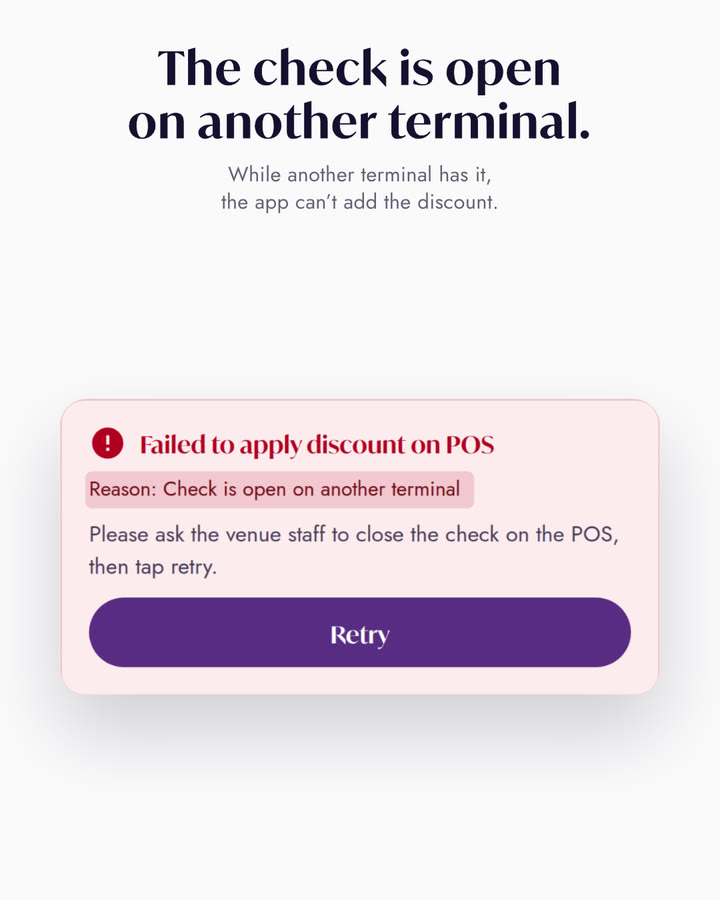
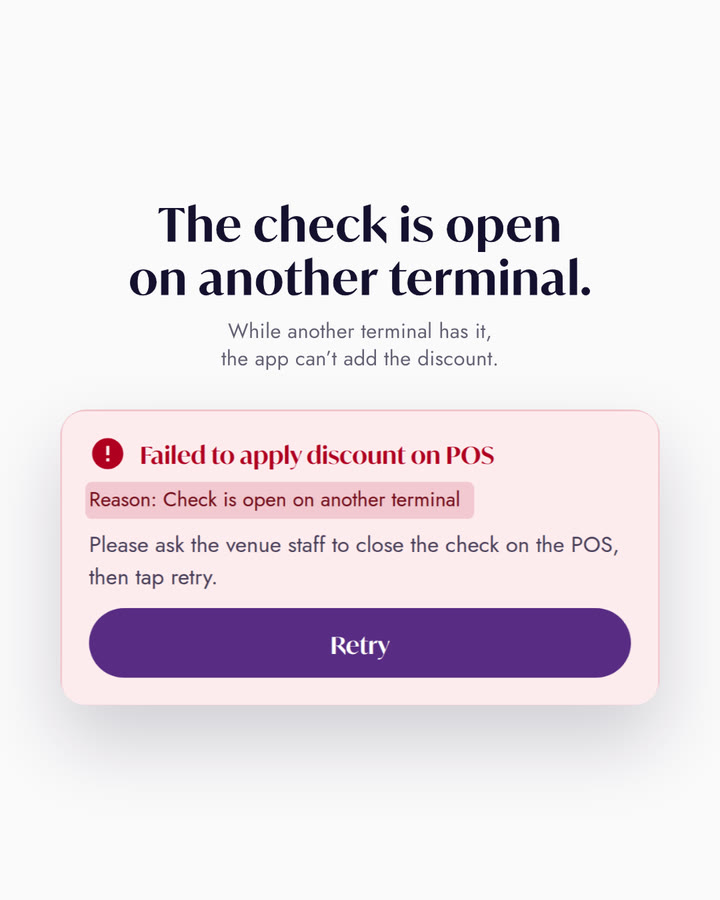
Films: cover is words alone; one alignment system
The cover is purple with the white logo, the situation and the series,
centred like the close; it slides away to uncover the phone.

Every shot now lines up by two rules. Over the phone, which the frame
crops, the statement sits 56 px above it, so words and phone always meet
on the same line. With something shown whole (the error card, the POS,
the bill, the dialog, the phone back at the table), statement and object
are centred in the frame together, 56 px apart. Each film measures its
own type to do this. IvyMode's tracking is balanced on both sides so
each line centres on its ink.

Claude-Session: https://claude.ai/code/session_01UDbUantV7xvSMHGkAysqWx

Changed region(s): [[0.0917, 0.4356, 0.8861, 0.8089], [0.1833, 0.1867, 0.825, 0.4044], [0.1833, 0.0311, 0.825, 0.1556]]

diff --git a/video/explainer.html b/video/explainer.html
@@ -12,9 +12,10 @@
    4:5 (1080 x 1350). Colour: purple for the brand moments (the cover and the
    close, white type, the white logo), ink for type, paper behind the product.
    Everything else on screen is the product's own. Ground: flat. No gradients,
-   no blur. Alignment: one statement, centred at the top; the product below it,
-   large, cropped by the bottom of the frame. The opening frame is the cover,
-   and the thumbnail. */
+   no blur. Alignment: one statement, centred, over the product: GAP above the
+   phone, which the frame crops; or centred in the frame together with anything
+   shown whole (see the layout). The opening frame is the cover, and the
+   thumbnail: words alone on purple. */
 @font-face{font-family:PosSans;font-weight:400;src:url(assets/fonts/open-sans-400.woff2) format('woff2')}
 @font-face{font-family:PosSans;font-weight:600;src:url(assets/fonts/open-sans-600.woff2) format('woff2')}
 :root{--purple:#592A87;--ink:#14102E;--paper:#FAFAFA;--W:1080px;--H:1350px}
@@ -32,11 +33,12 @@ html,body{width:var(--W);height:var(--H);overflow:hidden;background:var(--paper)
 .ln{display:block;overflow:hidden;padding:36px 24px;margin:-36px 0;line-height:1.18}
 .ln > *{display:inline-block;will-change:transform}
 .step{font-family:Jost,sans-serif;font-size:27px;letter-spacing:.2em;padding-left:.2em;text-transform:uppercase;color:var(--purple)}
-.say{font-family:Ivy,serif;font-size:68px;letter-spacing:.035em;-webkit-text-stroke:.013em currentColor;font-kerning:normal}
+.say{font-family:Ivy,serif;font-size:68px;letter-spacing:.035em;padding-left:.035em;-webkit-text-stroke:.013em currentColor;font-kerning:normal}
 .sup{font-family:Jost,sans-serif;font-size:31px;color:rgba(20,16,46,.66);line-height:1.3;letter-spacing:.01em}
-.cover .say{font-size:74px}
-.cover{top:44px}
-.cover .gapL{margin-top:-18px}
+/* the cover is words alone, centred: the logo, the situation, the series */
+#cover{z-index:20}
+.cover .say{font-size:80px}
+.cover .gapL{margin-top:22px}
 .mid .say{font-size:80px}
 .logo img{display:inline-block;width:300px;height:auto;vertical-align:top}
 /* the cover and the close: purple, white type, the white logo */
@@ -91,10 +93,10 @@ html,body{width:var(--W);height:var(--H);overflow:hidden;background:var(--paper)
 #dlg img{position:absolute;left:-28px;top:-28px;width:690px}
 </style></head>
 <body><div id="stage">
-  <!-- the cover: the opening frame, and the thumbnail. Purple, behind the phone, so it can
-       slide away as the film begins while the phone settles into place -->
+  <!-- the cover: the opening frame, and the thumbnail. Purple, over everything, words alone;
+       it slides away as the film begins and leaves the phone in place -->
   <div id="cover" class="panel onPurple"><div id="coverIn" class="panel" style="background:none">
-    <div id="c1" class="title cover"><span class="ln logo"><img src="assets/logo-white.svg" alt="Cinnamon DISCOVERY"></span>
+    <div id="c1" class="title cover mid"><span class="ln logo"><img src="assets/logo-white.svg" alt="Cinnamon DISCOVERY"></span>
       <span class="ln gapL"><span class="say">When the check is open</span></span><span class="ln"><span class="say">on the POS.</span></span>
       <span class="ln gap"><span class="sup">Dine with DISCOVERY Dollars</span></span></div>
   </div></div>
@@ -337,14 +339,14 @@ const pmix = (A, B, k) => ({ s: Math.exp(lerp(Math.log(A.s), Math.log(B.s), k)),
 const PC_FULL = posCam(901, 507, 1), PC_EXIT = posCam(1290, 880, 1.9), PC_TILE = posCam(560, 430, 1.75);
 // the phone sits large under the words, cropped by the frame; the guest has scrolled the bill to the card
 const S = 1.45, SCROLL = 214;
-const REST = { x: CX - 417 * S / 2, y: 372 };
-const POSS = 1.0, POSX = (W - 1016 * POSS) / 2, POSY = 400;     // the POS, centred under its statement
+const REST = { x: CX - 417 * S / 2, y: 392 };
+const POSS = 1.0, POSX = (W - 1016 * POSS) / 2;     // the POS, centred under its statement (its top set by the layout)
 const onScreen = (x, pageY) => ({ x: REST.x + (12 + x) * S, y: REST.y + (12 + 54 - SCROLL + pageY) * S });
 
 /* ---------------------------------------------------------------- the film
    Told from the team member's side: what you see, what it means, what you do.
-   0     Cover (and thumbnail): the brand, the situation, the phone with the error  calm
-   3.0   A guest shows you this: the phone settles, the error on it                steady
+   0     Cover (and thumbnail): the brand, the situation, on purple                calm
+   3.0   A guest shows you this: the phone, the error on it                        steady
    5.6   What it means: the error stands alone, its reason marked                 held
    9.5   Find the check on the POS                                                steady
    11.7  Tap Cancel/Exit (in, ring, tap, out); the POS repaints to Home           precise
@@ -353,10 +355,36 @@ const onScreen = (x, pageY) => ({ x: REST.x + (12 + x) * S, y: REST.y + (12 + 54
    23.0  The discount is on the bill                                              held
    25.5  The same fix works for DISCOVERY Dollars                                 brief
    28.5  Close, centred: Minimise the check. Tap Retry. The logo.                 calm   */
+/* ------------------------------------------------------------ the layout
+   Two rules, so every shot lines up the same way. Over the phone, which the frame
+   crops, a statement sits GAP above it: the words always meet the phone on the same
+   line. With something shown whole, the statement and that thing are centred in the
+   frame together, GAP apart. Measured from the type itself, so it holds when the
+   words change. */
+const GAP = 56;
+let LAY = null;
+function place(ids) {
+  const hs = Object.fromEntries(ids.map((id) => [id, $(id).offsetHeight]));      // read everything, then write
+  return {
+    over: (id, y) => { $(id).style.top = `${y - GAP - hs[id]}px`; },
+    // returns the top of the thing shown with the statement
+    with: (id, h) => { const top = Math.round((H - hs[id] - GAP - h) / 2); $(id).style.top = `${top}px`; return top + hs[id] + GAP; },
+  };
+}
+const ERR_H = 351 * 900 / 712, BILL_H = 347 * 900 / 712, DLG_H = 508 * 1.3, POS_H = 584 + 26;   // the POS with its caption
+function layout() {
+  const L = place(['w1', 'w2', 'w3', 'w4', 'w5', 'w6', 'w7', 'w8']);
+  L.over('w1', REST.y); L.over('w6', REST.y);
+  const pos = L.with('w3', POS_H); L.with('w4', POS_H); L.with('w5', POS_H);
+  return { err: L.with('w2', ERR_H) + ERR_H / 2, bill: L.with('w7', BILL_H) + BILL_H / 2, dlg: L.with('w8', DLG_H), pos,
+    ready: document.fonts.status === 'loaded' };
+}
+
 function render(t) {
+  if (!LAY || !LAY.ready) LAY = layout();
   // the phone: in place from the first frame; steps down so the error can stand alone;
   // returns from the right; steps down again
-  let px = 0, py = 44 * (1 - glide(t, 2.45, 1.0));   // on the cover it sits a little lower, under the words; it settles as they go
+  let px = 0, py = 0;
   if (t >= 5.75) py = 1100 * glide(t, 5.75, 1.1);
   if (t >= 17.5) { py = 0; px = 1100 * (1 - glide(t, 18.55, 1.0)); }
   if (t >= 23.15) py = 1100 * glide(t, 23.15, 1.1);
@@ -368,16 +396,16 @@ function render(t) {
 
   // details lifted out of the phone and enlarged; each steps down when its shot ends
   const errDy = t >= 9.35 ? 1100 * glide(t, 9.35, .9) : 0;
-  lift('liftErr', t, 5.6, { ...onScreen(20, 472), w: 353 * S }, 900, CX, 820, 351, errDy);
+  lift('liftErr', t, 5.6, { ...onScreen(20, 472), w: 353 * S }, 900, CX, LAY.err, 351, errDy);
   $('liftErr').querySelector('.mark').style.transform = `scaleX(${clamp(glide(t, 6.6, .8)).toFixed(4)})`;
   const billDy = t >= 25.35 ? 1100 * glide(t, 25.35, .9) : 0;
-  lift('liftBill', t, 23.0, { ...onScreen(20, 506), w: 353 * S }, 900, CX, 820, 347, billDy);
+  lift('liftBill', t, 23.0, { ...onScreen(20, 506), w: 353 * S }, 900, CX, LAY.bill, 347, billDy);
   $('liftBill').querySelector('.mark').style.transform = `scaleX(${clamp(glide(t, 23.8, .8)).toFixed(4)})`;
 
   // the POS: in from the right under its centred statement; steps down when the guest's turn comes
   let qx = t < 9.5 ? 1200 : 1200 * (1 - glide(t, 9.5, 1.0)), qy = 0;
   if (t >= 18.35) qy = 1100 * glide(t, 18.35, .9);
-  $('pos').style.transform = `translate3d(${(POSX + qx).toFixed(2)}px,${(POSY + qy).toFixed(2)}px,0) scale(${POSS})`;
+  $('pos').style.transform = `translate3d(${(POSX + qx).toFixed(2)}px,${(LAY.pos + qy).toFixed(2)}px,0) scale(${POSS})`;
   $('pos').style.display = qx > 1150 || qy > 1080 ? 'none' : 'block';
   let pc = PC_FULL;
   if (t >= 11.7) pc = pmix(PC_FULL, PC_EXIT, glide(t, 11.7, 1.1));
@@ -393,10 +421,10 @@ function render(t) {
 
   // the DISCOVERY Dollars dialog: in from the right, out to the right for the close
   let gx = t < 25.5 ? 1100 : 1100 * (1 - glide(t, 25.5, 1.0));
-  $('dlg').style.transform = `translate3d(${(CX - 317 * 1.3 + gx).toFixed(2)}px,${(820 - 254 * 1.3).toFixed(2)}px,0) scale(1.3)`;
+  $('dlg').style.transform = `translate3d(${(CX - 317 * 1.3 + gx).toFixed(2)}px,${LAY.dlg.toFixed(2)}px,0) scale(1.3)`;
   $('dlg').style.display = gx > 1080 ? 'none' : 'block';
 
-  // the cover slides up and away, taking its words with it; the phone settles (above)
+  // the cover slides up and away, taking its words with it, and leaves the phone in place
   const cv = glide(t, 2.45, 1.0);
   $('cover').style.transform = `translate3d(0,${(-H * cv).toFixed(2)}px,0)`;
   $('coverIn').style.transform = `translate3d(0,${(-140 * cv).toFixed(2)}px,0)`;
@@ -420,8 +448,8 @@ window.DURATION = 34;
 window.SIZE = { w: W, h: H };
 /* the storyboard: one entry per shot (storyboard.mjs renders each at t) */
 window.SHOTS = [
-  { t: 0, from: 0, to: 2.4, id: 'c1', kind: 'Cover · thumbnail', action: 'The opening frame is the thumbnail. Purple: the white logo and the situation, over the guest’s phone showing “Failed to apply discount on POS”.', sound: 'Music opens on a question (marimba).' },
-  { t: 4.2, from: 3.0, to: 5.5, id: 'w1', action: 'The purple cover slides away with its words; the phone settles into place, scrolled to the error.', sound: 'Groove settles in.' },
+  { t: 0, from: 0, to: 2.4, id: 'c1', kind: 'Cover · thumbnail', action: 'The opening frame is the thumbnail. Words alone on purple: the white logo, the situation, and the series.', sound: 'Music opens on a question (marimba).' },
+  { t: 4.2, from: 3.0, to: 5.5, id: 'w1', action: 'The purple cover slides away with its words, uncovering the guest’s phone, scrolled to “Failed to apply discount on POS”.', sound: 'Groove settles in.' },
   { t: 7.6, from: 5.85, to: 9.35, id: 'w2', action: 'The error card lifts out of the phone, the reason marked: Check is open on another terminal.', sound: '' },
   { t: 10.8, from: 9.6, to: 11.55, id: 'w3', action: 'The POS slides in under a centred statement: Pick Up Check, Table B12/1.', sound: '' },
   { t: 13.5, from: 11.75, to: 14.6, id: 'w4', action: 'Close in on the bottom row. Cancel/Exit ringed and pressed, between Void and Make Payment.', sound: 'Tap.' },

diff --git a/video/password.html b/video/password.html
@@ -5,9 +5,10 @@
    4:5 (1080 x 1350). Colour: purple for the brand moments (the cover and the
    close, white type, the white logo), ink for type, paper behind the product.
    Everything inside the phone is the product itself: the mockup's own sign-in
-   sheet, run frame by frame. Ground: flat. Alignment: one statement, centred at
-   the top; the product below it, large, cropped by the bottom of the frame. The
-   opening frame is the cover, and the thumbnail. */
+   sheet, run frame by frame. Ground: flat. Alignment: one statement, centred,
+   over the product: GAP above the phone, which the frame crops; or centred in the
+   frame together with anything shown whole (see the layout). The opening frame
+   is the cover, and the thumbnail: words alone on purple. */
 /* Type: the product's faces. IvyMode states, Jost supports and numbers the step.
    IvyMode is a high-contrast display cut: at video size its hairlines (the arm of a
    k, the thin stroke of an x) fall under a pixel and vanish, and its tight pairs
@@ -29,11 +30,12 @@ html,body{width:var(--W);height:var(--H);overflow:hidden;background:var(--paper)
 .ln{display:block;overflow:hidden;padding:36px 24px;margin:-36px 0;line-height:1.18}
 .ln > *{display:inline-block;will-change:transform}
 .step{font-family:Jost,sans-serif;font-size:27px;letter-spacing:.2em;padding-left:.2em;text-transform:uppercase;color:var(--purple)}
-.say{font-family:Ivy,serif;font-size:68px;letter-spacing:.035em;-webkit-text-stroke:.013em currentColor;font-kerning:normal}
+.say{font-family:Ivy,serif;font-size:68px;letter-spacing:.035em;padding-left:.035em;-webkit-text-stroke:.013em currentColor;font-kerning:normal}
 .sup{font-family:Jost,sans-serif;font-size:31px;color:rgba(20,16,46,.66);line-height:1.3;letter-spacing:.01em}
-.cover .say{font-size:74px}
-.cover{top:44px}
-.cover .gapL{margin-top:-18px}
+/* the cover is words alone, centred: the logo, the situation, the series */
+#cover{z-index:20}
+.cover .say{font-size:80px}
+.cover .gapL{margin-top:22px}
 .mid .say{font-size:80px}
 .logo img{display:inline-block;width:300px;height:auto;vertical-align:top}
 /* the cover and the close: purple, white type, the white logo */
@@ -86,10 +88,10 @@ html,body{width:var(--W);height:var(--H);overflow:hidden;background:var(--paper)
 @font-face{font-family:PosSans;font-weight:600;src:url(assets/fonts/open-sans-600.woff2) format('woff2')}
 </style></head>
 <body><div id="stage">
-  <!-- the cover: the opening frame, and the thumbnail. Purple, behind the phone, so it can
-       slide away as the film begins while the phone settles into place -->
+  <!-- the cover: the opening frame, and the thumbnail. Purple, over everything, words alone;
+       it slides away as the film begins and leaves the phone in place -->
   <div id="cover" class="panel onPurple"><div id="coverIn" class="panel" style="background:none">
-    <div id="c1" class="title cover"><span class="ln logo"><img src="assets/logo-white.svg" alt="Cinnamon DISCOVERY"></span>
+    <div id="c1" class="title cover mid"><span class="ln logo"><img src="assets/logo-white.svg" alt="Cinnamon DISCOVERY"></span>
       <span class="ln gapL"><span class="say">When a guest forgets</span></span><span class="ln"><span class="say">their password.</span></span>
       <span class="ln gap"><span class="sup">Dine with DISCOVERY Dollars</span></span></div>
   </div></div>
@@ -205,7 +207,7 @@ function typing(start, text, { base = .13, spread = .07, seed = 7, pauses = {} }
 const typed = (t, text, at) => { let n = 0; while (n < at.length && t >= at[n]) n++; return text.slice(0, n); };
 
 /* ------------------------------------------------------------ the story
-   0     Cover (and thumbnail): the brand, the situation, the phone     calm
+   0     Cover (and thumbnail): the brand, the situation, on purple     calm
    3.0   A guest can't sign in: the app has said no                     steady
    6.0   Show them Forgot Password? (ringed, tapped)                    held
    9.2   1  The email carries over; Send code                           steady
@@ -383,8 +385,8 @@ function measure() {
    The phone sits large under the words, cropped by the bottom of the frame, so
    the sheet reads; it pulls back when the whole screen matters. */
 const CAM = {
-  big: { s: 1.6, y: 372 },
-  full: { s: 1.12, y: 378 },
+  big: { s: 1.6, y: 392 },
+  full: { s: 1.04, y: 0 },          // whole, so it is centred with its words (y set by the layout)
 };
 function camAt(t) {
   // the pull-back to the table is seen; the return to big happens while the phone is out of frame
@@ -440,11 +442,35 @@ function lift(el, t, up, down, from, toW, toCX, toCY) {
   return k;
 }
 
+/* ------------------------------------------------------------ the layout
+   Two rules, so every shot lines up the same way. Over the phone, which the frame
+   crops, a statement sits GAP above it: the words always meet the phone on the same
+   line. With something shown whole, the statement and that thing are centred in the
+   frame together, GAP apart. Measured from the type itself, so it holds when the
+   words change. */
+const GAP = 56;
+let LAY = null;
+function place(ids) {
+  const hs = Object.fromEntries(ids.map((id) => [id, $(id).offsetHeight]));      // read everything, then write
+  return {
+    over: (id, y) => { $(id).style.top = `${y - GAP - hs[id]}px`; },
+    // returns the top of the thing shown with the statement
+    with: (id, h) => { const top = Math.round((H - hs[id] - GAP - h) / 2); $(id).style.top = `${top}px`; return top + hs[id] + GAP; },
+  };
+}
+function layout() {
+  const L = place(['w1', 'w2', 'w3', 'w4', 'w5', 'w6', 'w6b', 'w7', 'w8', 'w9', 'w10']);
+  ['w1', 'w2', 'w3', 'w4', 'w5', 'w6', 'w6b', 'w7', 'w9', 'w10'].forEach((id) => L.over(id, CAM.big.y));
+  CAM.full.y = L.with('w8', 876 * CAM.full.s);          // back at the table: the whole phone
+  return { email: CAM.big.y, ready: document.fonts.status === 'loaded' };   // the email lifts to the phone's top line
+}
+
 function render(t) {
   if (!AT.signin) return;
-  // the phone: in place from the first frame (the cover), then the camera follows the story
+  if (!LAY || !LAY.ready) LAY = layout();
+  // the phone: in place from the first frame (under the cover), then the camera follows the story
   const cam = camAt(t), PW = 417 * cam.s, home = CX - PW / 2;
-  let px = home, py = cam.y + 44 * (1 - glide(t, 2.45, 1.0));   // on the cover it sits a little lower, under the words; it settles as they go
+  let px = home, py = cam.y;
   // the two tips are shown on the same phone: it steps out left, and comes back in from the right
   if (t >= T.tip1 - .7 && t < T.tip1 + .9) { const o = glide(t, T.tip1 - .7, .5), i = glide(t, T.tip1 - .12, .8); px += t < T.tip1 - .12 ? -1100 * o : 1100 * (1 - i); }
   if (t >= T.tip2 - .5 && t < T.tip2 + .9) { const o = glide(t, T.tip2 - .5, .6), i = glide(t, T.tip2 + .12, .8); px += t < T.tip2 + .12 ? -1100 * o : 1100 * (1 - i); }
@@ -467,7 +493,7 @@ function render(t) {
   $('note').style.display = t >= T.noteIn && nOut < .999 ? 'block' : 'none';
   $('note').style.transform = `translate3d(0,${(-90 + 146 * nIn - 146 * nOut).toFixed(2)}px,0)`;   // below the island, as iOS drops it
   const nx = px + (12 + 10) * cam.s, ny = py + (12 + 56) * cam.s;
-  lift($('emailBig'), t, T.emailUp, T.emailDown, { x: nx, y: ny, s: cam.s, w0: 373, h0: 336.3 }, 880, CX, 860);
+  lift($('emailBig'), t, T.emailUp, T.emailDown, { x: nx, y: ny, s: cam.s, w0: 373, h0: 336.3 }, 880, CX, LAY.email + 880 * 336.3 / 373 / 2);
   $('emailMark').style.transform = `scaleX(${glide(t, T.emailUp + 1.0, .7).toFixed(4)})`;
 
   // the rules, enlarged while the password goes in: a second copy of the page, in step
@@ -480,7 +506,7 @@ function render(t) {
 
   touches(t);
 
-  // the cover slides up and away, taking its words with it; the phone settles (above)
+  // the cover slides up and away, taking its words with it, and leaves the phone in place
   const cv = glide(t, 2.45, 1.0);
   $('cover').style.transform = `translate3d(0,${(-H * cv).toFixed(2)}px,0)`;
   $('coverIn').style.transform = `translate3d(0,${(-140 * cv).toFixed(2)}px,0)`;
@@ -508,8 +534,8 @@ window.DURATION = 50.8;
 window.SIZE = { w: W, h: H };
 /* the storyboard: one entry per shot (storyboard.mjs renders each at t) */
 window.SHOTS = [
-  { t: 0, from: 0, to: 2.4, id: 'c1', kind: 'Cover · thumbnail', action: 'The opening frame is the thumbnail. Purple: the white logo and the situation, over the guest’s phone, where sign-in has just failed with “Wrong Username or Password”.', sound: 'Music opens on a question (marimba).' },
-  { t: 4.3, from: 3.0, to: 5.85, id: 'w1', action: 'The purple cover slides away with its words; the phone settles into place. The app’s failure toast runs down.', sound: 'Groove settles in.' },
+  { t: 0, from: 0, to: 2.4, id: 'c1', kind: 'Cover · thumbnail', action: 'The opening frame is the thumbnail. Words alone on purple: the white logo, the situation, and the series.', sound: 'Music opens on a question (marimba).' },
+  { t: 4.3, from: 3.0, to: 5.85, id: 'w1', action: 'The purple cover slides away with its words, uncovering the guest’s phone: sign-in has just failed with “Wrong Username or Password”. The toast runs down.', sound: 'Groove settles in.' },
   { t: 7.7, from: 6.05, to: 9.05, id: 'w2', action: 'A ring draws round Forgot Password?; a fingertip comes in from below right and taps it.', sound: 'Tap.' },
   { t: 10.5, from: 9.25, to: 12.15, id: 'w3', action: 'Forgot Password, with the email already filled in from sign-in. Tap Send code; the button spins.', sound: 'Tap.' },
   { t: 15.8, from: 12.45, to: 18.1, id: 'w4', action: 'An email notification drops in under the island. The guest opens it: the real email lifts out, the code 800368 marked.', sound: 'Notification, two soft notes.' },

diff --git a/video/storyboard/index.html b/video/storyboard/index.html
@@ -77,13 +77,13 @@ dd{margin:0;min-width:0}
         <figure><img src="frames/password-01.jpg" width="720" height="900" loading="lazy" alt="Shot 1: When a guest forgets their password."></figure>
         <div class="shot-meta"><span class="n">01</span><span class="tc">0:00.0 – 0:02.4</span><span class="kind">Cover · thumbnail</span></div>
         <div class="words"><p class="w-say">When a guest forgets their password.</p><p class="w-sup">Dine with DISCOVERY Dollars</p><p class="w-logo">Cinnamon DISCOVERY logo</p></div>
-        <dl><dt>On screen</dt><dd>The opening frame is the thumbnail. Purple: the white logo and the situation, over the guest’s phone, where sign-in has just failed with “Wrong Username or Password”.</dd><dt>Sound</dt><dd>Music opens on a question (marimba).</dd></dl>
+        <dl><dt>On screen</dt><dd>The opening frame is the thumbnail. Words alone on purple: the white logo, the situation, and the series.</dd><dt>Sound</dt><dd>Music opens on a question (marimba).</dd></dl>
       </li>
       <li class="shot">
         <figure><img src="frames/password-02.jpg" width="720" height="900" loading="lazy" alt="Shot 2: A guest can’t sign in."></figure>
         <div class="shot-meta"><span class="n">02</span><span class="tc">0:03.0 – 0:05.8</span></div>
         <div class="words"><p class="w-say">A guest can’t sign in.</p><p class="w-sup">Usually, it’s a forgotten password.</p></div>
-        <dl><dt>On screen</dt><dd>The purple cover slides away with its words; the phone settles into place. The app’s failure toast runs down.</dd><dt>Sound</dt><dd>Groove settles in.</dd></dl>
+        <dl><dt>On screen</dt><dd>The purple cover slides away with its words, uncovering the guest’s phone: sign-in has just failed with “Wrong Username or Password”. The toast runs down.</dd><dt>Sound</dt><dd>Groove settles in.</dd></dl>
       </li>
       <li class="shot">
         <figure><img src="frames/password-03.jpg" width="720" height="900" loading="lazy" alt="Shot 3: Show them Forgot Password?"></figure>
@@ -171,13 +171,13 @@ dd{margin:0;min-width:0}
         <figure><img src="frames/check-01.jpg" width="720" height="900" loading="lazy" alt="Shot 1: When the check is open on the POS."></figure>
         <div class="shot-meta"><span class="n">01</span><span class="tc">0:00.0 – 0:02.4</span><span class="kind">Cover · thumbnail</span></div>
         <div class="words"><p class="w-say">When the check is open on the POS.</p><p class="w-sup">Dine with DISCOVERY Dollars</p><p class="w-logo">Cinnamon DISCOVERY logo</p></div>
-        <dl><dt>On screen</dt><dd>The opening frame is the thumbnail. Purple: the white logo and the situation, over the guest’s phone showing “Failed to apply discount on POS”.</dd><dt>Sound</dt><dd>Music opens on a question (marimba).</dd></dl>
+        <dl><dt>On screen</dt><dd>The opening frame is the thumbnail. Words alone on purple: the white logo, the situation, and the series.</dd><dt>Sound</dt><dd>Music opens on a question (marimba).</dd></dl>
       </li>
       <li class="shot">
         <figure><img src="frames/check-02.jpg" width="720" height="900" loading="lazy" alt="Shot 2: A guest shows you this."></figure>
         <div class="shot-meta"><span class="n">02</span><span class="tc">0:03.0 – 0:05.5</span></div>
         <div class="words"><p class="w-say">A guest shows you this.</p><p class="w-sup">Their member discount didn’t go through.</p></div>
-        <dl><dt>On screen</dt><dd>The purple cover slides away with its words; the phone settles into place, scrolled to the error.</dd><dt>Sound</dt><dd>Groove settles in.</dd></dl>
+        <dl><dt>On screen</dt><dd>The purple cover slides away with its words, uncovering the guest’s phone, scrolled to “Failed to apply discount on POS”.</dd><dt>Sound</dt><dd>Groove settles in.</dd></dl>
       </li>
       <li class="shot">
         <figure><img src="frames/check-03.jpg" width="720" height="900" loading="lazy" alt="Shot 3: The check is open on another terminal."></figure>

diff --git a/video/README.md b/video/README.md
@@ -28,14 +28,19 @@ with the words on screen, what happens and what you hear. Open `storyboard/index
   white type and the white Cinnamon DISCOVERY logo, and the step label and rings in between),
   ink `#14102E` for type, paper `#FAFAFA` behind the product. Everything else is the
   product's own UI.
-- **Alignment (4:5).** One statement, centred at the top of the frame (from y 58), with
-  the product below it on the centre line, large and cropped by the bottom of the frame.
-  Details lifted out of the phone are centred under the statement too. The close is a
-  purple panel rising over everything: the rule, centred in the frame, then the white logo.
-- **The cover is the thumbnail.** The first frame, on purple: the white logo, the situation
-  in large white type centred above it, and the guest's phone showing the problem. The
-  purple slides away with its words as the film starts, the phone settles up into place,
-  and the first statement rises once the purple has cleared the top of the frame.
+- **Alignment (4:5).** Everything on the centre line, and two rules for where things sit,
+  so every shot lines up the same way. Over the phone, which the frame crops, a statement
+  sits 56 px above it: the words always meet the phone on the same line (y 392), however
+  many lines they run to. With something shown whole (the error card, the POS, the bill,
+  the dialog, the phone back at the table), the statement and that thing are centred in
+  the frame together, 56 px apart. The films measure their own type to do this, so it
+  holds when the words change. IvyMode's tracking is balanced on both sides, so each line
+  is centred on its ink. The close is a purple panel rising over everything: the rule,
+  centred in the frame, then the white logo.
+- **The cover is the thumbnail.** The first frame: words alone on purple, centred, like the
+  close: the white logo, the situation in large white type, and the series. The purple
+  slides away with its words as the film starts, uncovering the guest's phone, and the
+  first statement rises once the purple has cleared the top of the frame.
 - **Type: the product's faces.** IvyMode states, Jost supports and numbers the step
   ("Step 2 of 4"). IvyMode is a high-contrast display cut: at video size its hairlines
   (the arm of a k, the thin stroke of an x) fall under a pixel and vanish, and some pairs
